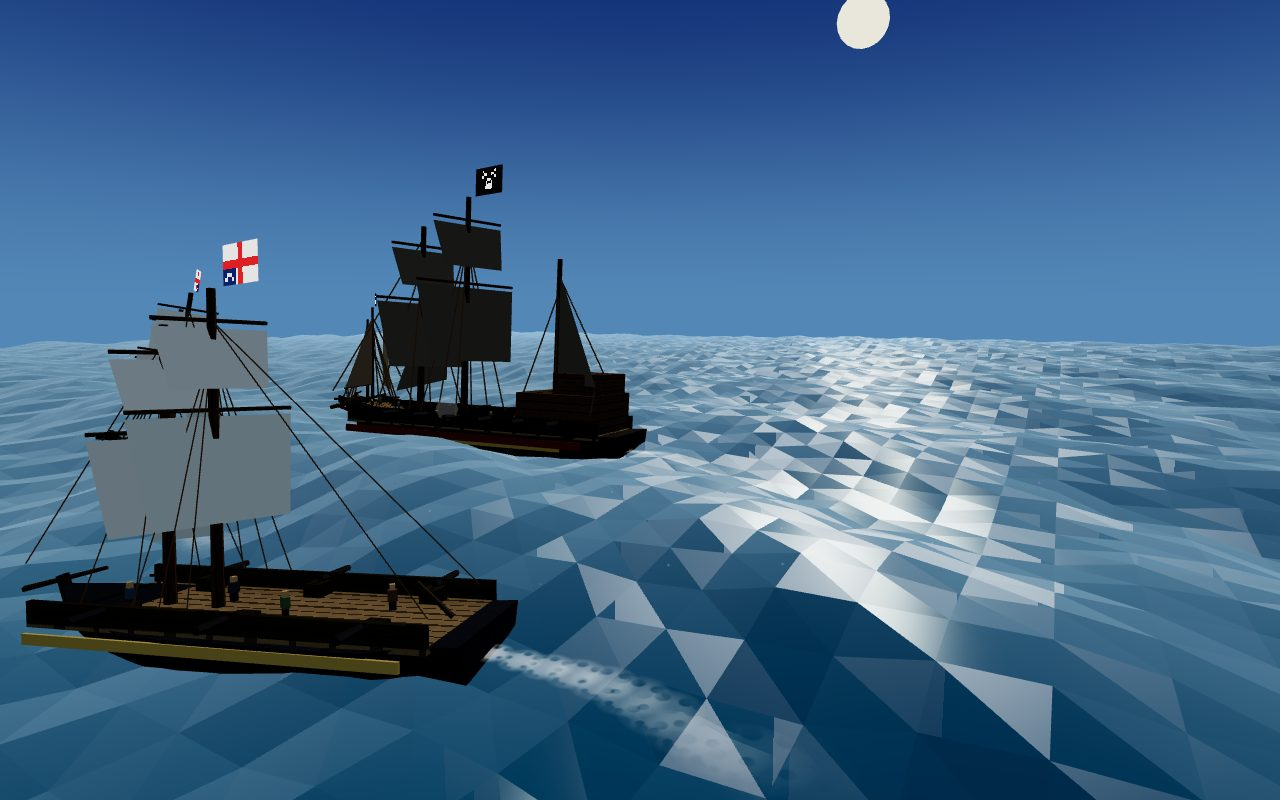
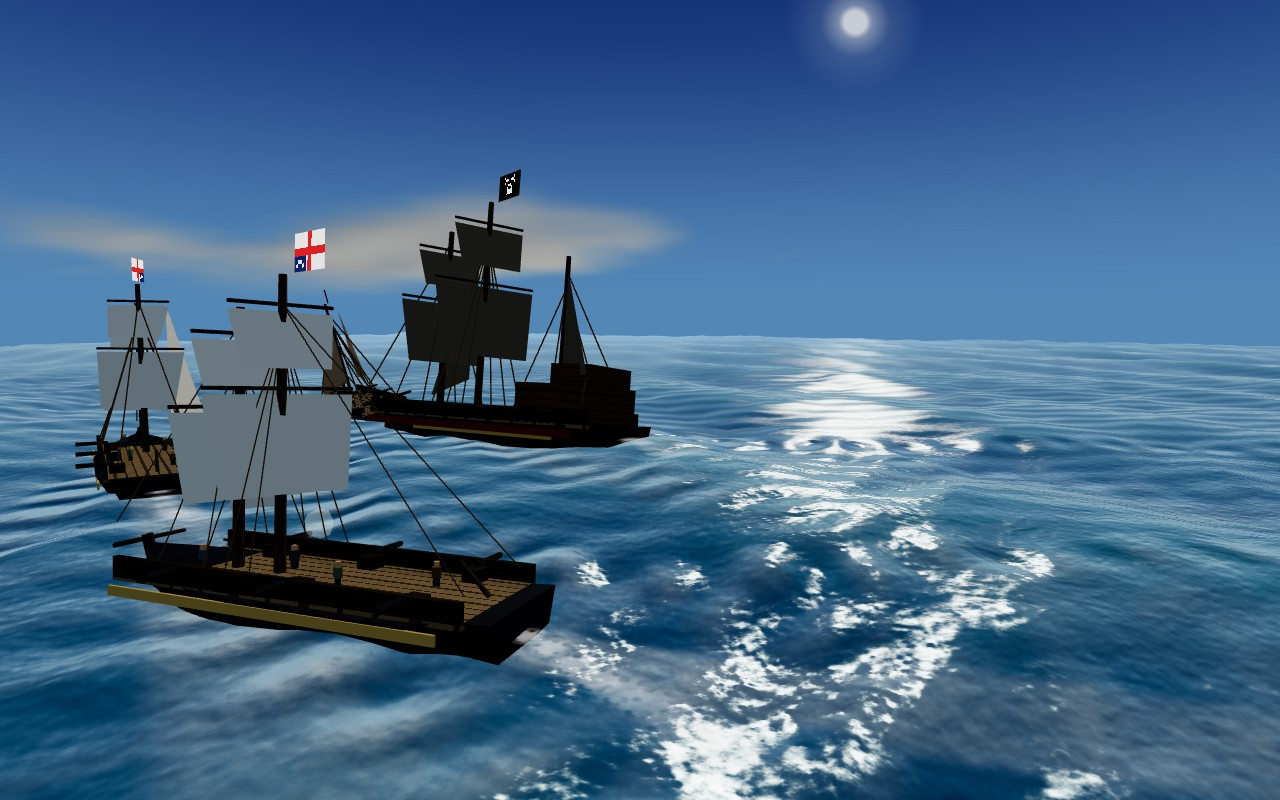
saltstead shot: the landing diorama on the new water

diff --git a/index.html b/index.html
@@ -103,7 +103,7 @@
       </div>
 
       <div class="stead" id="salt" data-game="saltstead" data-url="https://www.saltstead.app">
-        <div class="port"><img src="/shots/saltstead.jpg" alt="Saltstead — tall ships on a moonlit sea" /><span class="wake">hover to visit</span></div>
+        <div class="port"><img src="/shots/saltstead.jpg" alt="Saltstead — tall ships in line of battle on a sunlit rolling sea" /><span class="wake">hover to visit</span></div>
         <div class="body">
           <h2>SALTSTEAD</h2>
           <p class="tagline">the sea never signed the treaty</p>
